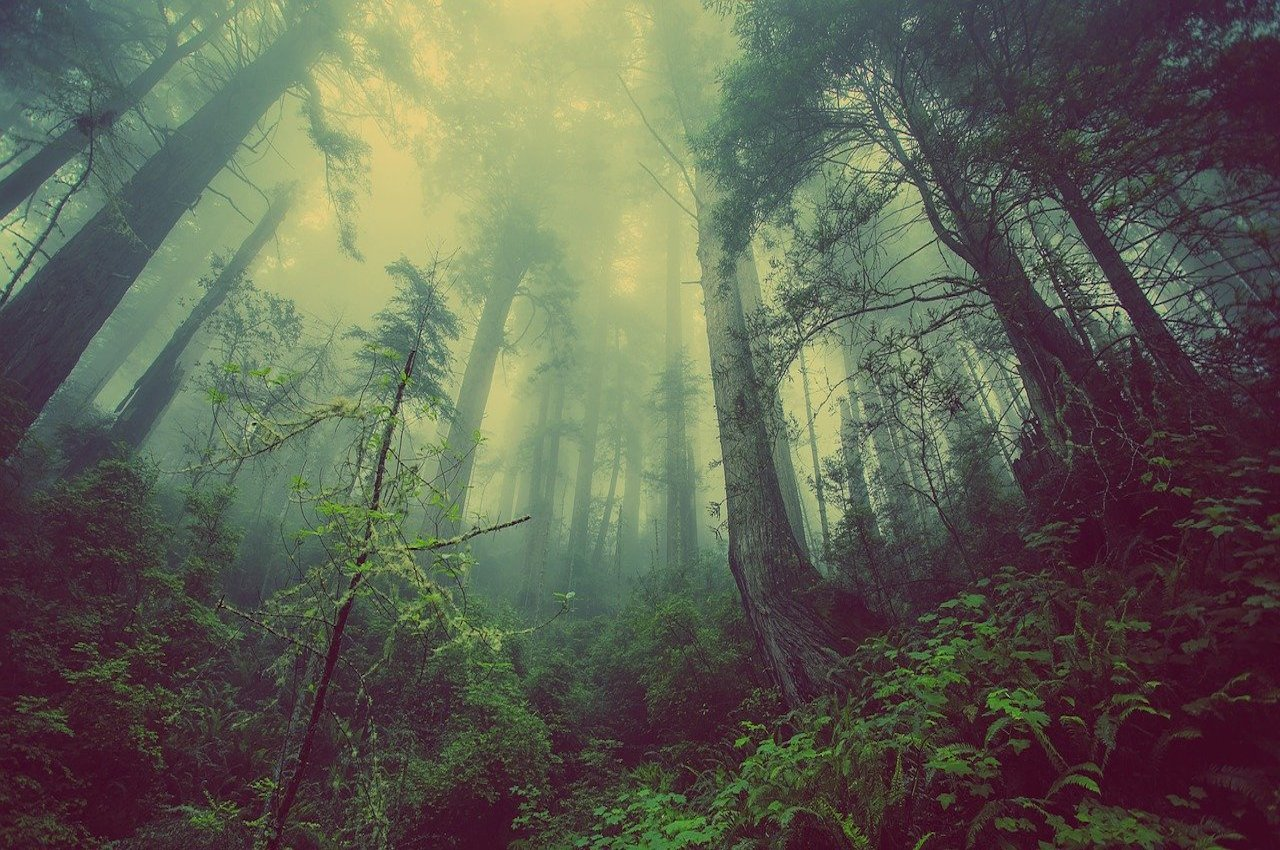
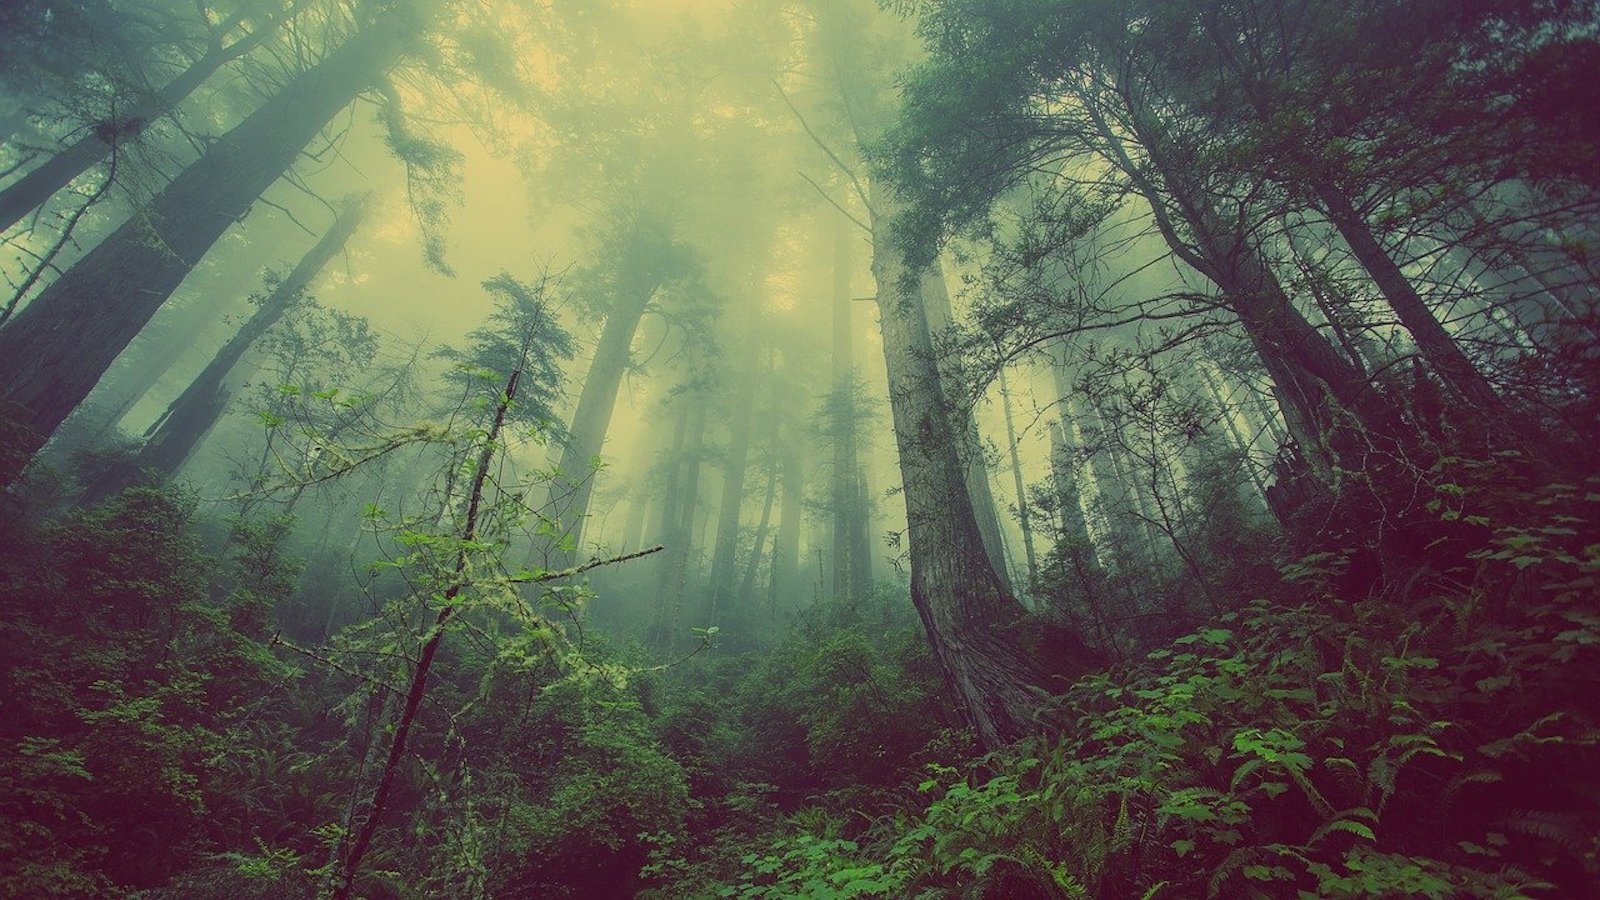
fix styles

diff --git a/index.html b/index.html
@@ -11,19 +11,15 @@
 
     body {
       margin: 0;
-      display: flex;
-      flex-direction: column;
-      align-items: center;
-      justify-content: center;
       font-family: sans-serif;
       font-size: 16px;
     }
 
     .controls {
+      margin: 16px 0;
       display: flex;
       justify-content: center;
       align-items: center;
-      margin-bottom: 6px;
       text-align: center;
     }
 
@@ -43,28 +39,39 @@
     }
 
     #gallery {
-      width: 800px;
-      height: 532px;
+      position: absolute;
+      left: 0;
+      top: 0;
+      width: 100%;
+      height: 100%;
       background: #ccc;
+    }
+
+    .container {
+      height: 0;
+      padding-bottom: 56.25%; /* 16:9 */
+      position: relative;
     }
   </style>
   <link href="./src/styles.css" rel="stylesheet">
 </head>
 <body>
 
+<div class="container">
+  <native-gallery id="gallery">
+    <img src="images/1.jpg" width="1600" height="900" alt="">
+    <img src="images/2.jpg" width="675" height="900" alt="" loading="lazy">
+    <img src="images/3.jpg" width="1600" height="900" alt="" loading="lazy">
+    <img src="images/4.jpg" width="1600" height="900" alt="" loading="lazy">
+    <img src="images/5.jpg" width="1600" height="900" alt="" loading="lazy">
+  </native-gallery>
+</div>
+
 <div class="controls">
   <button id="prev">Prev</button>
   <div id="current">1 / 5</div>
   <button id="next">Next</button>
 </div>
-
-<native-gallery id="gallery">
-  <img src="images/1.jpg" width="1280" height="850" alt="">
-  <img src="images/2.jpg" width="960" height="1280" alt="" loading="lazy">
-  <img src="images/3.jpg" width="1280" height="850" alt="" loading="lazy">
-  <img src="images/4.jpg" width="1280" height="850" alt="" loading="lazy">
-  <img src="images/5.jpg" width="1280" height="850" alt="" loading="lazy">
-</native-gallery>
 
 <script type="module">
   import NativeGallery from './src/index.js';

diff --git a/src/styles.css b/src/styles.css
@@ -1,5 +1,5 @@
 native-gallery {
-    display: inline-flex;
+    display: flex;
     overflow-x: scroll;
     scroll-snap-type: x mandatory;
     scroll-behavior: smooth;
@@ -15,6 +15,7 @@ native-gallery:not(.-loaded) [loading="lazy"] {
 }
 
 native-gallery img {
+    flex: 0 0 auto;
     width: 100%;
     height: 100%;
     object-fit: contain;
